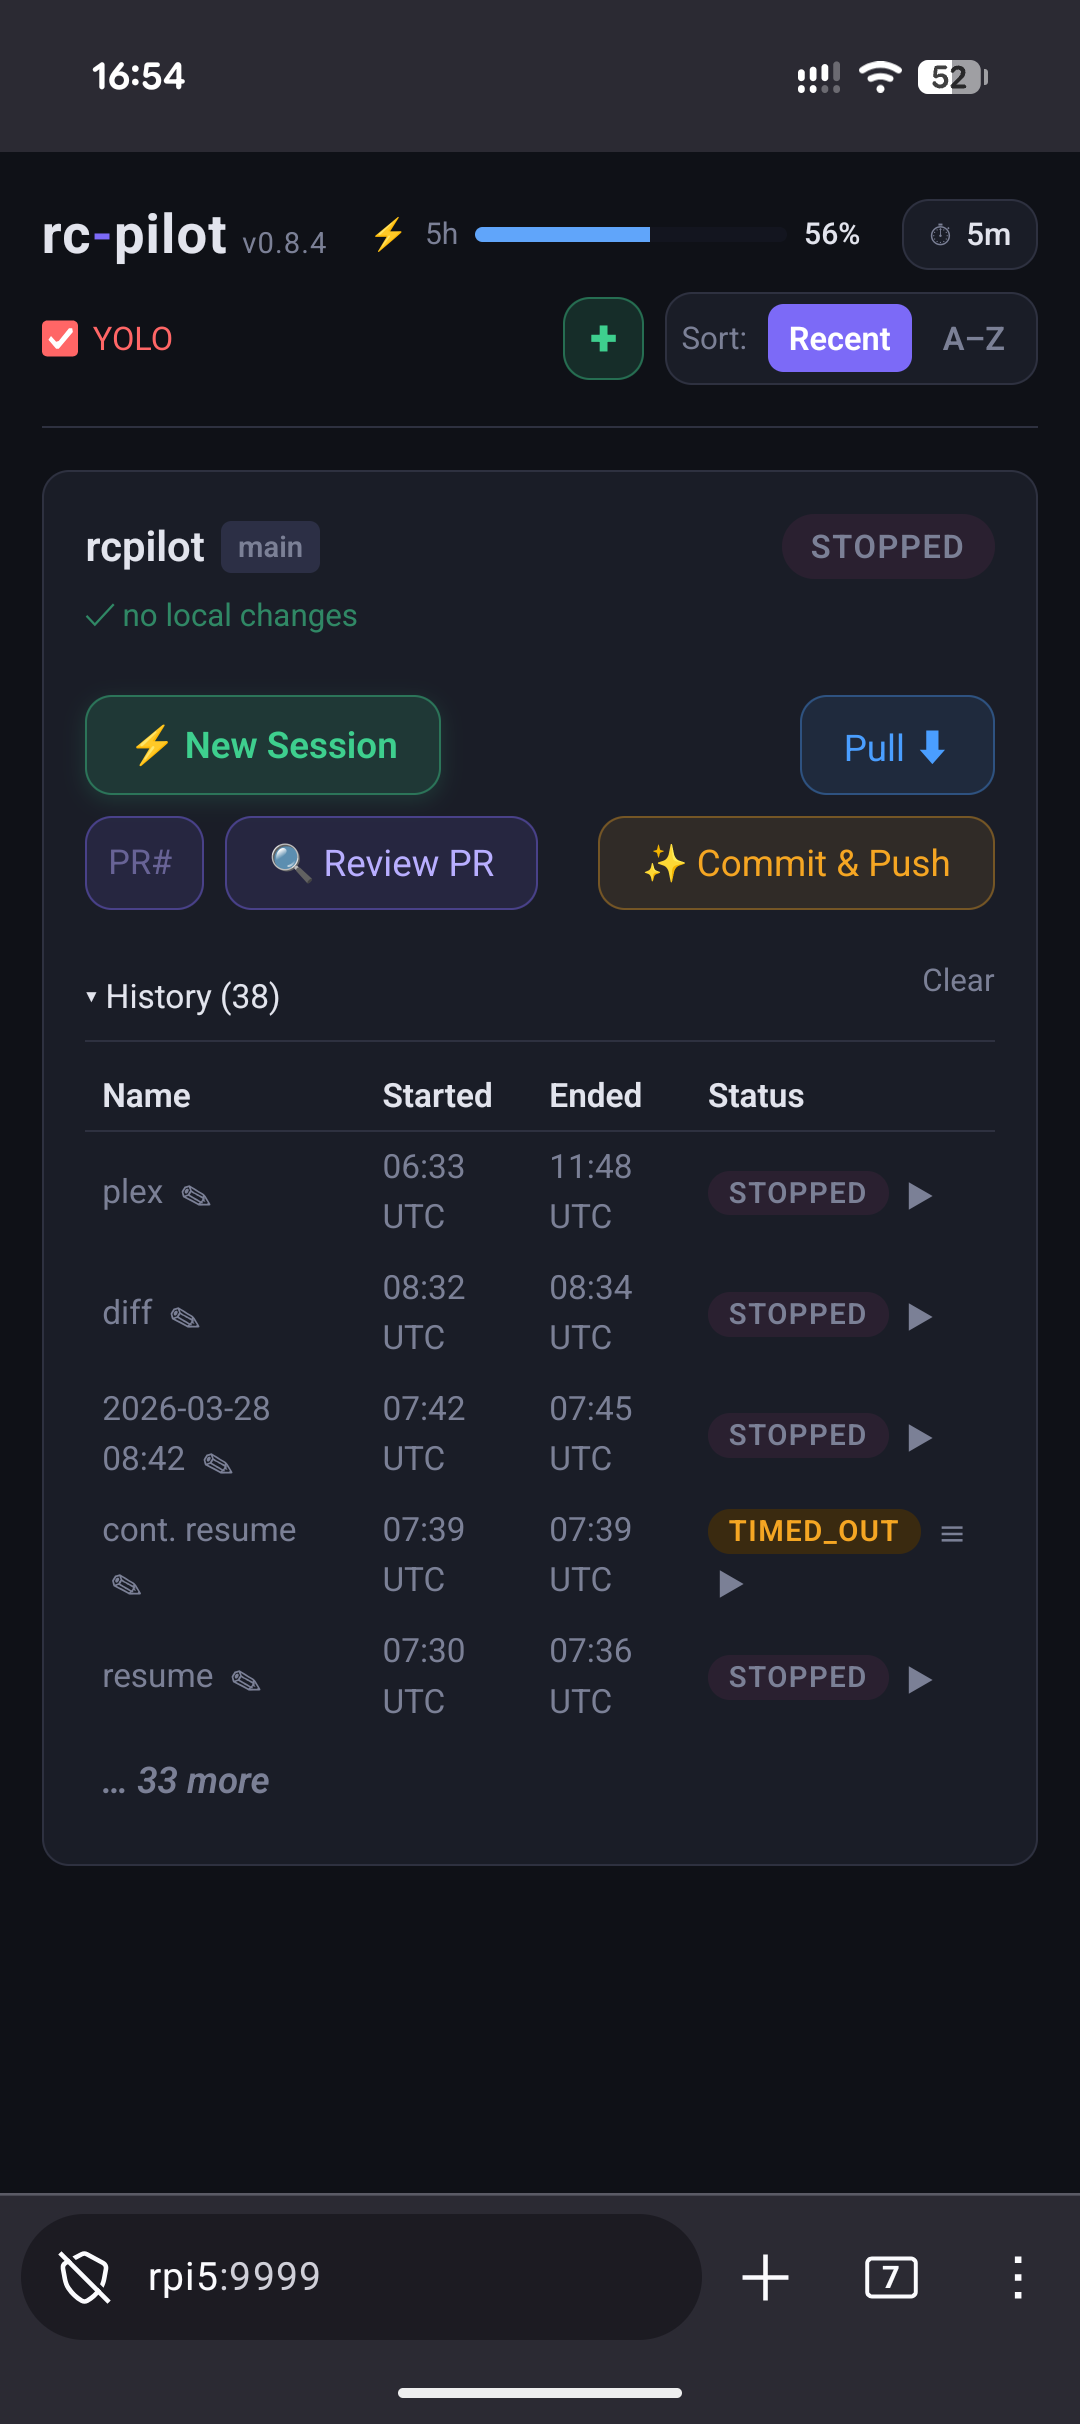
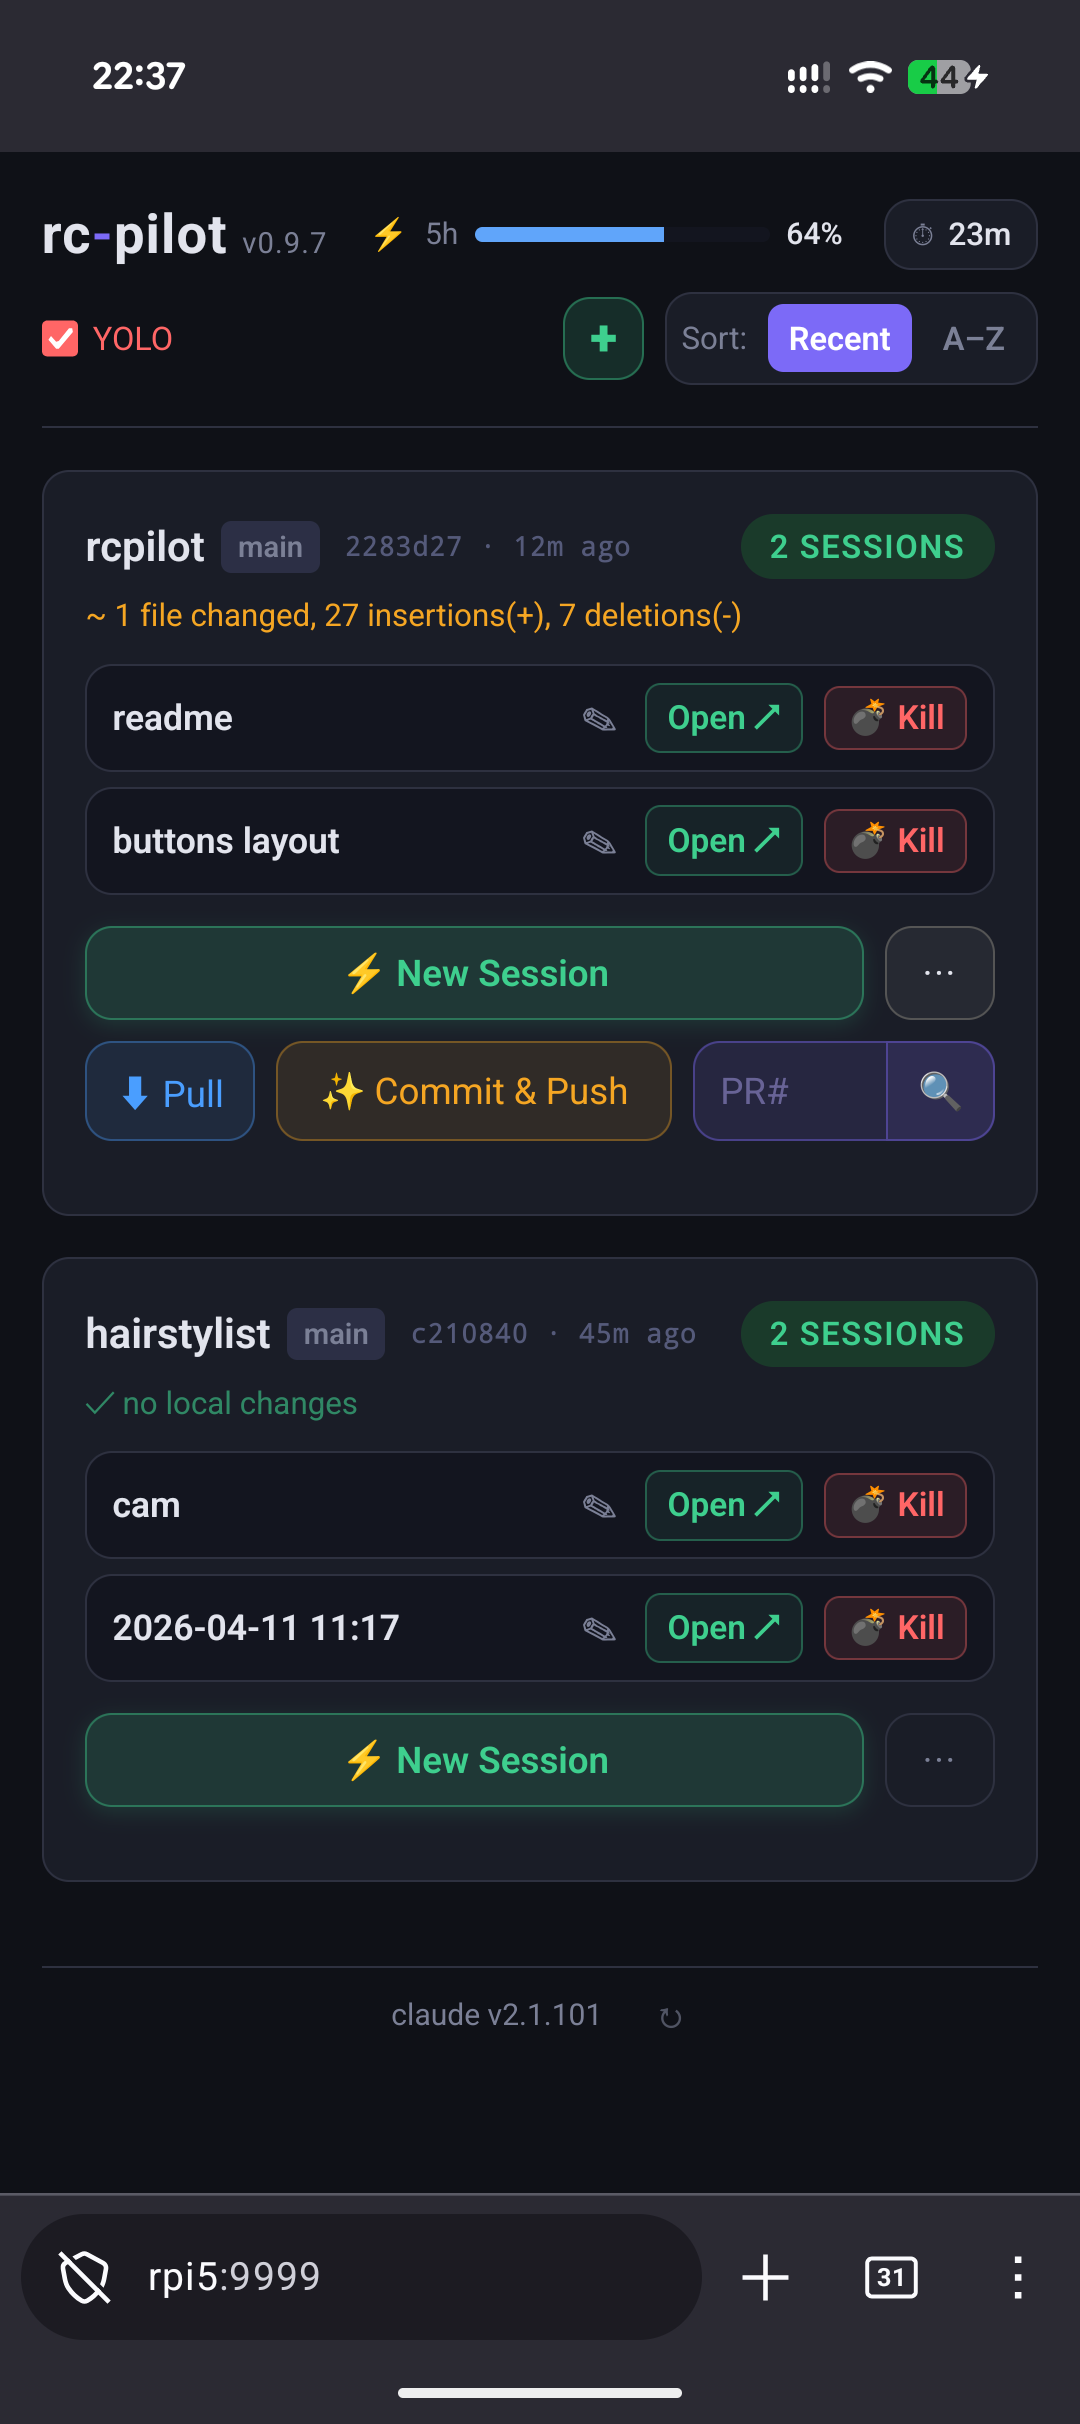
v1.0.0: update README with all features, fresh screenshot, bump to stable

diff --git a/README.md b/README.md
@@ -21,13 +21,19 @@ it with everything that's missing:
 - **Full session history** per project — every session logged with start time, duration, and status
 - **Terminal snapshots** — captured on session end and browsable any time
 - **Multiple concurrent sessions** per project, all tracked independently
-- **YOLO mode** — one toggle to run sessions with `--permission-mode bypassPermissions`
+- **YOLO mode** — one toggle to run sessions with `--dangerously-skip-permissions`
 - **Usage window scheduler** — cron-based background job fires `claude -p "hi"` to start the 5-hour rolling usage window at configured times
+- **Usage widget** — live progress bar in the header showing your 5-hour rate-limit window utilization, sourced from the built-in API proxy
 - **Session naming** — auto-named by timestamp, rename anything inline
 - **Git integration** — view diffs, pull, commit, and push without leaving the UI
+- **Claude-powered commit** — Commit & Push auto-generates a commit message via `claude -p`; you review and confirm before anything is pushed
 - **PR review** — trigger a full Claude code review on any open GitHub PR
+- **Import project** — clone a GitHub repository directly from the UI into your projects directory
+- **Project sort** — toggle between sort-by-last-modified and sort-by-name
 - **Watchdog** — background process monitor marks crashed or timed-out sessions automatically
 - **Sessions survive restarts** — the server can restart without killing active Claude sessions
+- **Claude CLI auto-updater** — background job runs `claude update` on a cron schedule (default: 06:00 and 18:00); current version and last-updated time shown in the header with a manual trigger button
+- **Anthropic API proxy** — transparent proxy between Claude Code and `api.anthropic.com` that captures rate-limit utilization, reset timestamps, and per-model call counts (no credentials exposed)
 
 ---
 
@@ -83,14 +89,23 @@ On a Pi, replace `localhost` with the Pi's IP or Tailscale hostname.
 
 ## The UI
 
+The header shows:
+
+- Current Claude CLI version and last-updated time
+- Live 5-hour API usage widget (utilization bar + percentage)
+- Next scheduled usage-window fire time
+- Manual "update Claude now" button
+
 Each project gets a card showing:
 
 - Running sessions with their RC URL (tap to open in Claude Code)
 - Start a new session (optionally named, optionally in YOLO mode)
 - Kill a running session
-- Git branch, diff stat, pull button, diff viewer, commit & push flow
-- PR review launcher
+- Git branch, diff stat, pull button, diff viewer, Claude-powered commit & push flow
+- PR review launcher (posts results as a GitHub PR comment)
 - Full session history with snapshot viewer and inline rename
+
+The project list can be sorted by last-modified or by name. New projects can be imported (cloned) from GitHub without leaving the UI.
 
 The UI is mobile-first with large tap targets — works well on iOS Safari and Android Chrome.
 No app install needed.
@@ -125,14 +140,18 @@ db_path = "~/.config/rcpilot/pilot.db"
 
 # Usage window scheduler — fires "claude -p hi" on a cron schedule to start
 # the 5-hour rolling usage window (Pro/Max plans). Standard 5-field cron syntax.
-# Example: fire at 07:00 and 12:00 every day
-window_cron = "0 7,12 * * *"
+# Example: fire at 07:00, 12:00, and 17:00 every day
+window_cron = "0 7,12,17 * * *"
+
+# Claude CLI auto-updater — runs "claude update" on a cron schedule.
+# Default: twice daily at 06:00 and 18:00. Set to "" to disable.
+claude_update_cron = "0 6,18 * * *"
 ```
 
 All fields are optional — the defaults above apply when the file is absent.
 
-The scheduler runs embedded in the app (no system cron needed). The next scheduled
-fire time is shown in the UI header. Supported cron syntax: `*`, `*/n`, `a-b`, `a,b,c`.
+Both schedulers run embedded in the app (no system cron needed). The next scheduled
+usage-window fire time is shown in the UI header. Supported cron syntax: `*`, `*/n`, `a-b`, `a,b,c`.
 
 ---
 
@@ -204,6 +223,7 @@ Simple token-based auth is planned for Phase 3.
 |-------|--------|-------|
 | 0 — Foundation | ✅ done | Project discovery, web UI, session spawning |
 | 1 — Persistence | ✅ done | Session history, snapshots, watchdog, git & PR integration |
+| 1.5 — Tooling | ✅ done | Usage proxy, Claude auto-updater, project import, sort, Claude-powered commit |
 | 2 — Context memory | 🔜 next | Claude API summarization, resume with injected context |
 | 3 — Polish | 💡 planned | Auth, PWA, PyPI publish, Docker, CI |
 